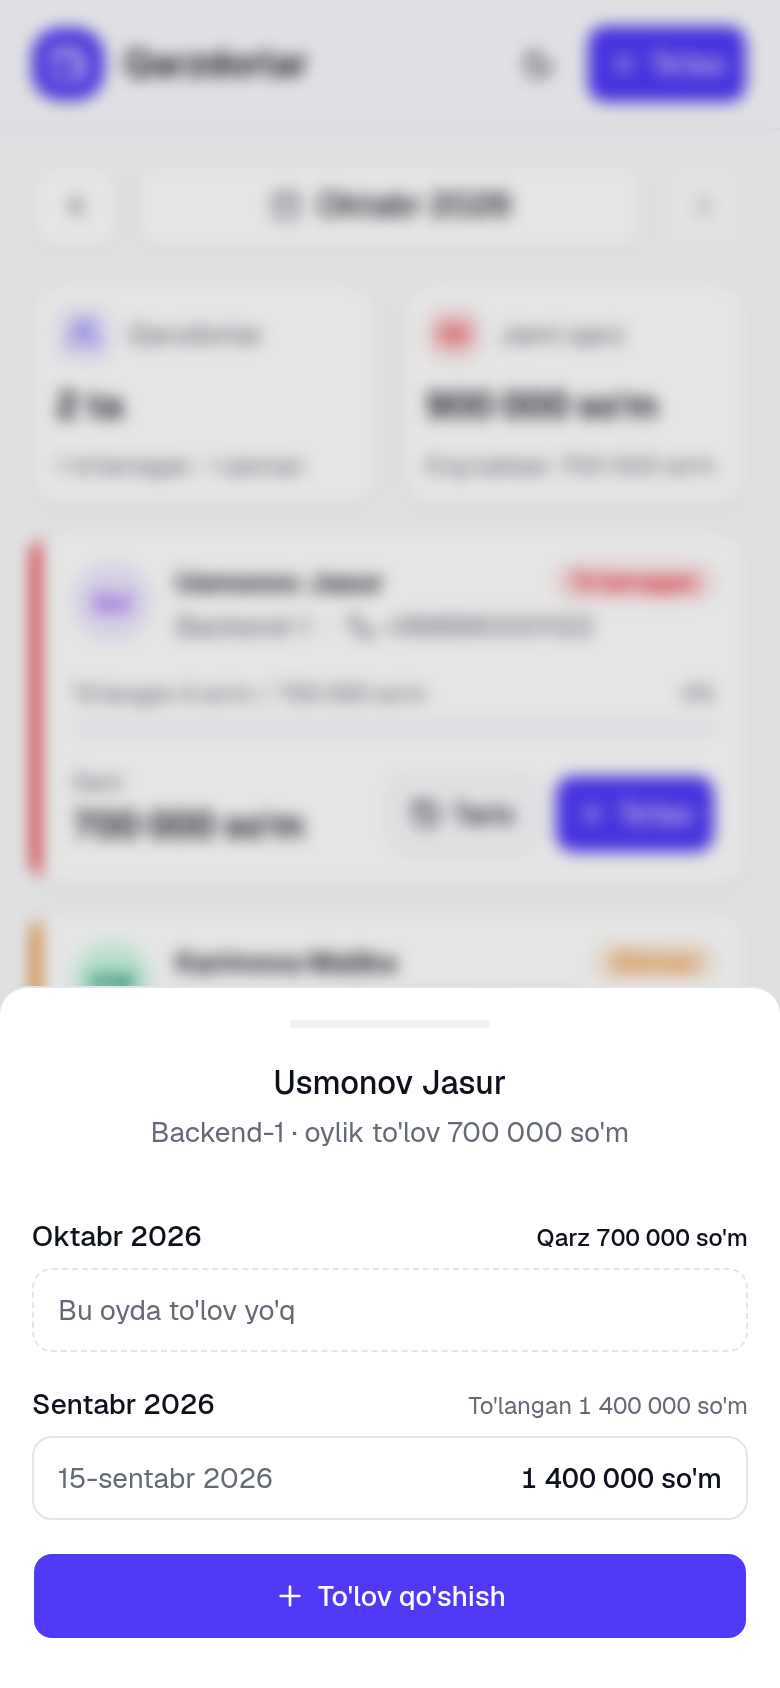
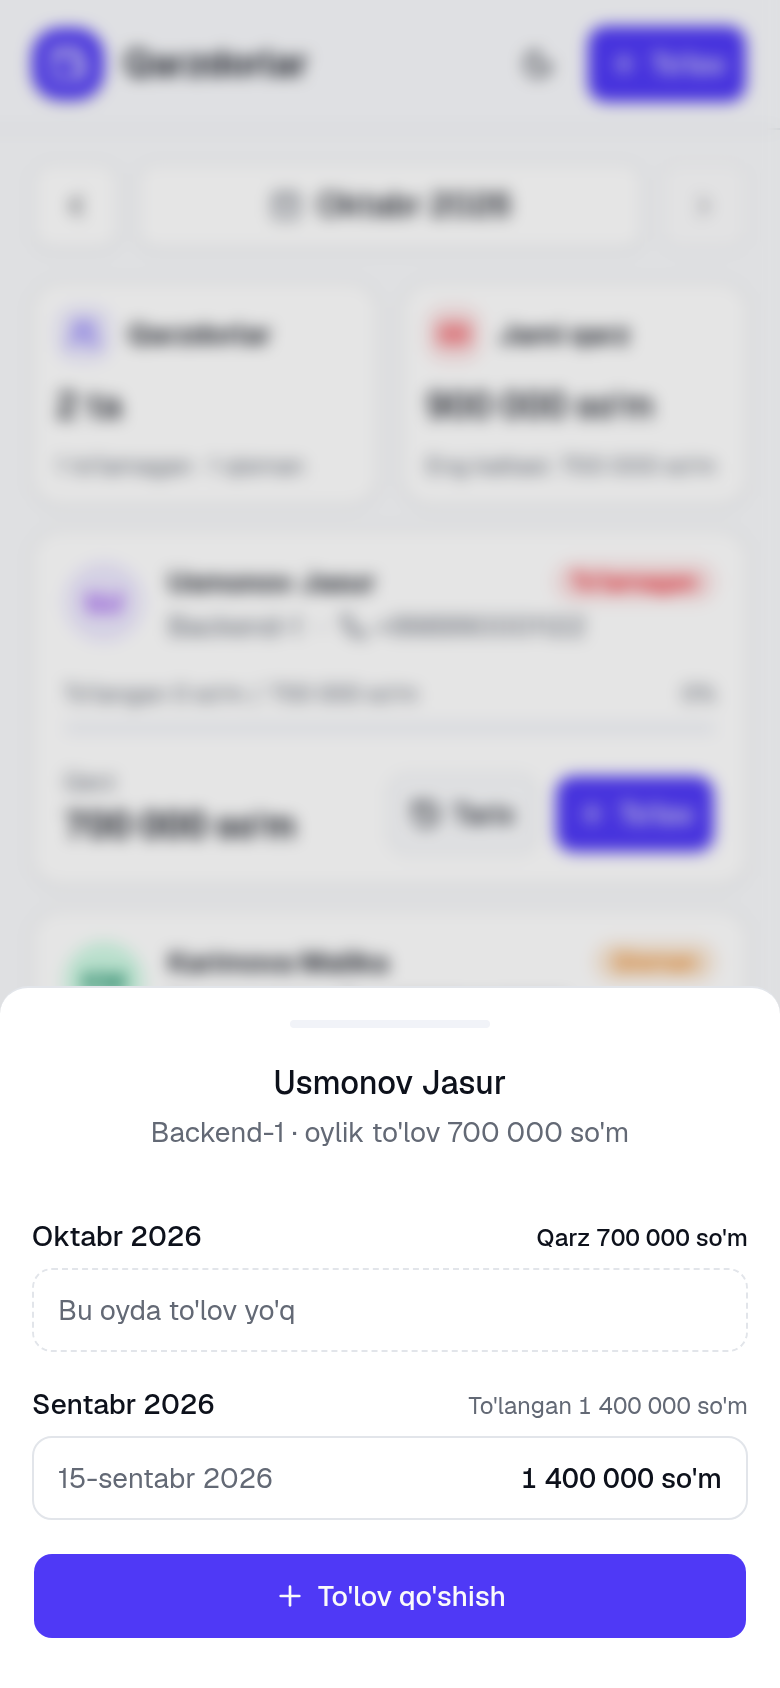
style(frontend): show debt status only with the badge

diff --git a/frontend/src/features/debtors/debtor-card.tsx b/frontend/src/features/debtors/debtor-card.tsx
@@ -20,13 +20,8 @@ export function DebtorCard({ debtor, onPay, onHistory }: DebtorCardProps) {
   const status = STATUS_STYLE[debtStatus(debtor)];
 
   return (
-    <Card className="relative h-full gap-0 py-4 shadow-xs transition-shadow hover:shadow-md">
-      {/* Chap chetdagi rang chizig'i: holatni bir qarashda ko'rsatadi */}
-      <span
-        aria-hidden="true"
-        className={cn('absolute inset-y-0 left-0 w-1', status.accent)}
-      />
-      <CardContent className="flex h-full flex-col gap-4 px-4 pl-5">
+    <Card className="h-full gap-0 py-4 shadow-xs transition-shadow hover:shadow-md">
+      <CardContent className="flex h-full flex-col gap-4 px-4">
         <div className="flex items-start gap-3">
           <InitialsAvatar name={debtor.name} colorKey={debtor.studentId} />
           <div className="min-w-0 flex-1">
@@ -61,7 +56,7 @@ export function DebtorCard({ debtor, onPay, onHistory }: DebtorCardProps) {
           <Progress
             value={percent}
             aria-label={`${percent}% to'langan`}
-            className={cn('h-1.5', status.progress)}
+            className="h-1.5"
           />
         </div>
 

diff --git a/frontend/src/features/debtors/debt-status.ts b/frontend/src/features/debtors/debt-status.ts
@@ -7,21 +7,17 @@ export function debtStatus(debtor: Pick<Debtor, 'paid'>): DebtStatus {
   return debtor.paid > 0 ? 'partial' : 'unpaid';
 }
 
-/** Holatning ko'rinishi bir joyda: yorliq, rang chizig'i va progress rangi. */
+/** Holat faqat yorliq bilan ko'rsatiladi: matni va rangi shu yerda. */
 export const STATUS_STYLE: Record<
   DebtStatus,
-  { label: string; badge: string; accent: string; progress: string }
+  { label: string; badge: string }
 > = {
   unpaid: {
     label: "To'lamagan",
     badge: 'bg-destructive/10 text-destructive dark:bg-destructive/20',
-    accent: 'bg-destructive',
-    progress: '*:data-[slot=progress-indicator]:bg-destructive',
   },
   partial: {
     label: 'Qisman',
     badge: 'bg-warning/15 text-warning dark:bg-warning/20',
-    accent: 'bg-warning',
-    progress: '*:data-[slot=progress-indicator]:bg-warning',
   },
 };
